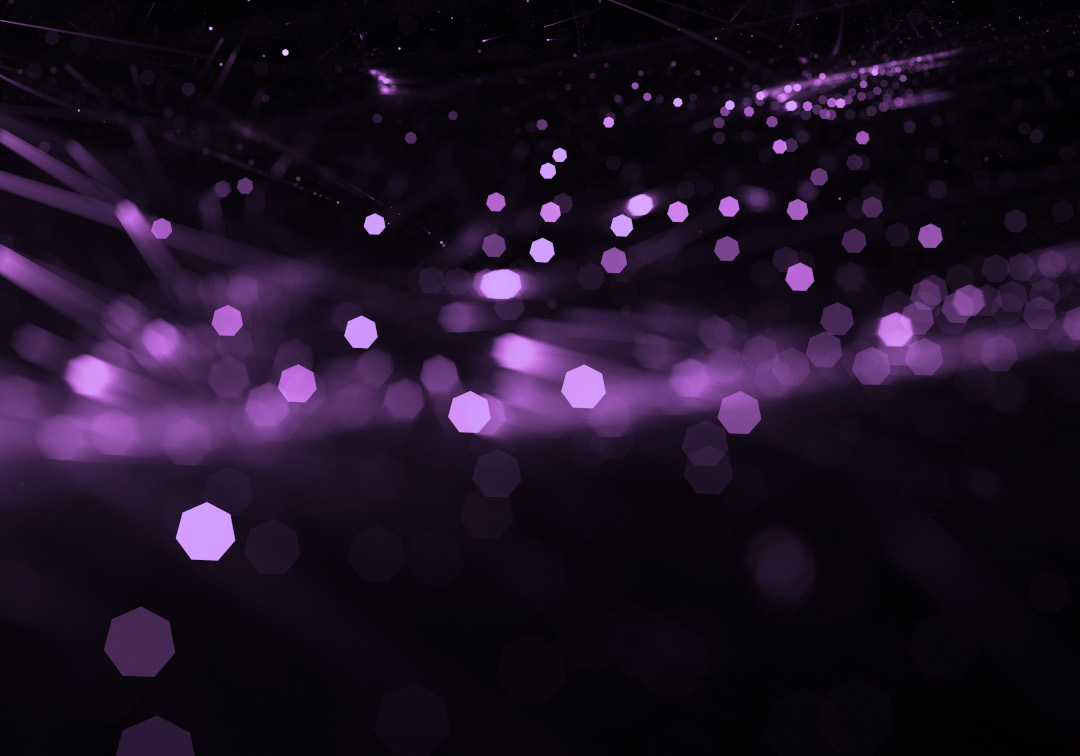
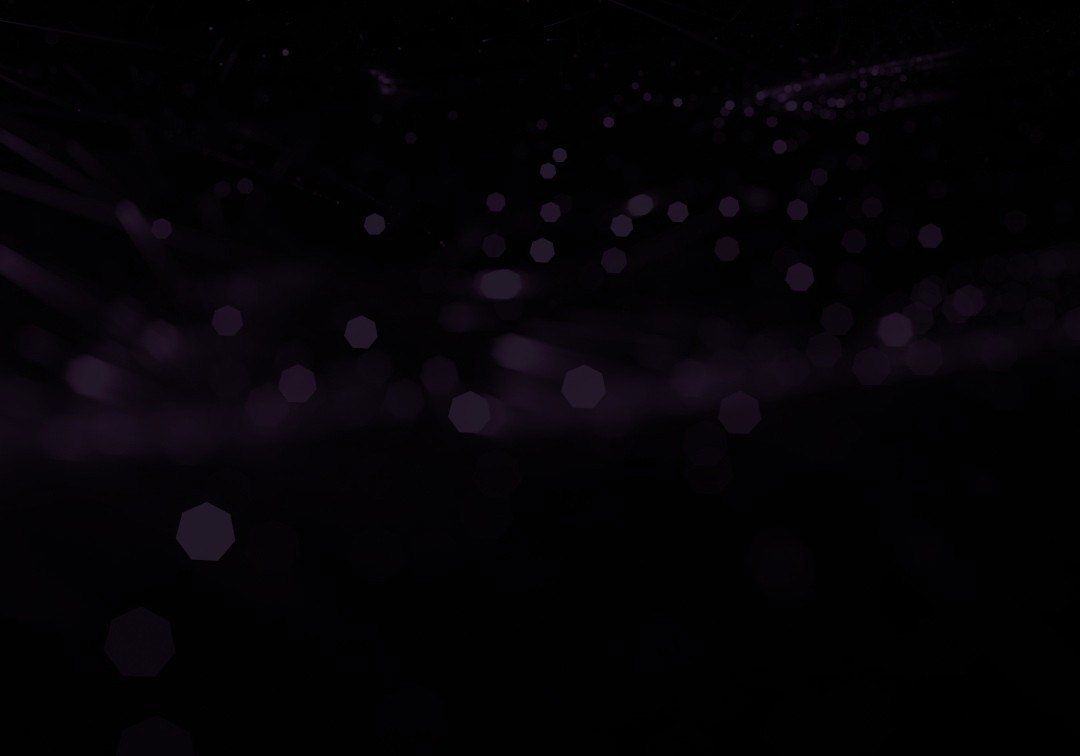
Intro Section Upd

diff --git a/index.html b/index.html
@@ -18,7 +18,7 @@
             <p>Abraão A. Reis</p>
         </div>
         <div id="col-menu">
-            <div id="menu-button"><span class="material-symbols-outlined" style="font-size: 36px;">menu</span></div>
+            <div id="menu-button"><span class="material-symbols-outlined">menu</span></div>
             <div id="side-menu" style="display: none;"> <!--Style local adicionado temporariamente-->
                 <nav>
                     <ul>
@@ -34,31 +34,37 @@
     </header>
     <main>
         <section id="intro">
-            <header class="title-container">
+            <div class="title-container">
                 <h1>Seus sites precisam ser <span>dinâmicos.</span></h1>
                 <div>
                     <div class="sidebar"></div>
                     <p>Contrate um profissional que entenda suas necessidades e transforme ideias em resultados.</p>
                     <div class="sidebar"></div>
                 </div>
-            </header>
-            <div id="useful-buttons">
-                <div>
-                    <p>Baixar CV</p>
-                </div>
-                <div>
-                    <p>Contato</p>
+                <div id="useful-buttons">
+                    <div>
+                        <p>Baixar CV</p>
+                    </div>
+                    <div>
+                        <p>Contato</p>
+                    </div>
                 </div>
             </div>
             <div id="network-buttons">
                 <div>
-                    <!--Github-->
+                    <svg xmlns="http://www.w3.org/2000/svg" x="0px" y="0px" width="30" height="30" viewBox="0 0 30 30">
+                        <path d="M15,3C8.373,3,3,8.373,3,15c0,5.623,3.872,10.328,9.092,11.63C12.036,26.468,12,26.28,12,26.047v-2.051 c-0.487,0-1.303,0-1.508,0c-0.821,0-1.551-0.353-1.905-1.009c-0.393-0.729-0.461-1.844-1.435-2.526 c-0.289-0.227-0.069-0.486,0.264-0.451c0.615,0.174,1.125,0.596,1.605,1.222c0.478,0.627,0.703,0.769,1.596,0.769 c0.433,0,1.081-0.025,1.691-0.121c0.328-0.833,0.895-1.6,1.588-1.962c-3.996-0.411-5.903-2.399-5.903-5.098 c0-1.162,0.495-2.286,1.336-3.233C9.053,10.647,8.706,8.73,9.435,8c1.798,0,2.885,1.166,3.146,1.481C13.477,9.174,14.461,9,15.495,9 c1.036,0,2.024,0.174,2.922,0.483C18.675,9.17,19.763,8,21.565,8c0.732,0.731,0.381,2.656,0.102,3.594 c0.836,0.945,1.328,2.066,1.328,3.226c0,2.697-1.904,4.684-5.894,5.097C18.199,20.49,19,22.1,19,23.313v2.734 c0,0.104-0.023,0.179-0.035,0.268C23.641,24.676,27,20.236,27,15C27,8.373,21.627,3,15,3z"></path>
+                    </svg>
                 </div>
                 <div>
-                    <!--LinkedIn-->
+                    <svg xmlns="http://www.w3.org/2000/svg" x="0px" y="0px" width="30" height="30" viewBox="0 0 30 30">
+                        <path d="M9,25H4V10h5V25z M6.501,8C5.118,8,4,6.879,4,5.499S5.12,3,6.501,3C7.879,3,9,4.121,9,5.499C9,6.879,7.879,8,6.501,8z M27,25h-4.807v-7.3c0-1.741-0.033-3.98-2.499-3.98c-2.503,0-2.888,1.896-2.888,3.854V25H12V9.989h4.614v2.051h0.065 c0.642-1.18,2.211-2.424,4.551-2.424c4.87,0,5.77,3.109,5.77,7.151C27,16.767,27,25,27,25z"></path>
+                    </svg>
                 </div>
                 <div>
-                    <!--Email-->
+                    <svg xmlns="http://www.w3.org/2000/svg" x="0px" y="0px" width="30" height="30" viewBox="0 0 50 50">
+                        <path d="M 43.753906 6.4023438 C 42.53621 6.3489969 41.294792 6.712898 40.271484 7.46875 L 37.525391 9.4960938 L 25 18.755859 L 12.591797 9.5839844 A 1.0001 1.0001 0 0 0 11.949219 9.3007812 L 12.199219 9.3007812 L 9.734375 7.4765625 C 8.7104042 6.7188363 7.4671493 6.3528895 6.2480469 6.40625 C 5.0289444 6.4596105 3.8349462 6.9314667 2.9082031 7.8457031 C 1.7309454 9.0063798 1 10.629831 1 12.410156 L 1 15.84375 A 1.0001 1.0001 0 0 0 1 16.138672 L 1 39.5 C 1 41.421188 2.5788117 43 4.5 43 L 12 43 A 1.0001 1.0001 0 0 0 13 42 L 13 25.373047 L 24.40625 33.804688 A 1.0001 1.0001 0 0 0 25.59375 33.804688 L 37 25.373047 L 37 42 A 1.0001 1.0001 0 0 0 38 43 L 45.5 43 C 47.421188 43 49 41.421188 49 39.5 L 49 16.119141 A 1.0001 1.0001 0 0 0 49 15.859375 L 49 12.410156 C 49 10.6517 48.290455 9.0357821 47.128906 7.8730469 C 47.095336 7.8394769 47.084086 7.83018 47.097656 7.84375 A 1.0001 1.0001 0 0 0 47.091797 7.8378906 C 46.165242 6.9256756 44.971603 6.4556905 43.753906 6.4023438 z M 43.644531 8.4003906 C 44.400835 8.4300436 45.134049 8.7168876 45.689453 9.2636719 C 45.708363 9.2823439 45.722171 9.2964424 45.712891 9.2871094 C 46.50934 10.084374 47 11.188613 47 12.410156 L 47 15.496094 L 39 21.408203 L 39 11 A 1.0001 1.0001 0 0 0 38.996094 10.898438 L 41.458984 9.078125 A 1.0001 1.0001 0 0 0 41.460938 9.078125 C 42.109578 8.598977 42.888228 8.3707375 43.644531 8.4003906 z M 6.3574219 8.40625 C 7.1145694 8.37661 7.8958927 8.6037105 8.5449219 9.0839844 L 11.003906 10.902344 A 1.0001 1.0001 0 0 0 11 11 L 11 21.408203 L 3 15.496094 L 3 12.410156 C 3 11.174482 3.5017577 10.068855 4.3125 9.2695312 C 4.8677569 8.7217677 5.6002743 8.4358895 6.3574219 8.40625 z M 37 12.371094 L 37 22.886719 L 25 31.755859 L 13 22.886719 L 13 12.373047 L 24.40625 20.804688 A 1.0001 1.0001 0 0 0 25.59375 20.804688 L 37 12.371094 z M 3 17.982422 L 11 23.896484 L 11 41 L 4.5 41 C 3.6591883 41 3 40.340812 3 39.5 L 3 17.982422 z M 47 17.982422 L 47 39.5 C 47 40.340812 46.340812 41 45.5 41 L 39 41 L 39 23.896484 L 47 17.982422 z"></path>
+                        </svg>
                 </div>
             </div>
             <p>Designed by <strong>Freepik</strong></p>

diff --git a/src/assets/styles/style.css b/src/assets/styles/style.css
@@ -56,13 +56,24 @@
 */
 
 body {
-    padding: 30px 30px;
+    height: 100vh;
+
+    background-color: var(--background-dark);
+}
+
+body p {
+    color: var(--primary-color);
 }
 
 body > header {
     display: flex;
     flex-direction: row nowrap;
     justify-content: space-between;
+    padding: 30px;
+
+    background-image: url(../images/background-p.jpg);
+    background-repeat: no-repeat;
+    background-position: right bottom;
 }
 
 header div#col-menu {
@@ -70,52 +81,78 @@ header div#col-menu {
     justify-self: center;
 }
 
-header h1 {
-    margin-bottom: 20px;
+header div#menu-button span {
+    color: var(--primary-color);
+    font-size: 36px;
+}
 
+div h1 {
+    margin-bottom: 28px;
+
+    color: var(--primary-color);
     text-align: center;
     font-size: var(--font-size-h1);
     font-family: var(--font-bold);
 }
 
-header h1 span {
+div h1 span {
     color: var(--base-color);
     text-decoration: underline;
 }
 
-header h2 {
+div h2 {
+    color: var(--primary-color);
     font-size: var(--font-size-h2);
     font-family: var(--font-bold);
 }
 
-header h2 span {
+div h2 span {
     color: var(--base-color);
 }
 
-header p {
+div p {
     font-size: var(--font-size-base);
     font-family: var(--font-light);
 }
 
-section#intro {
-    padding-top: 194px;
+section {
+    height: 700px;
+    padding: 30px;
 }
 
-header.title-container > div {
+section#intro {
+    display: grid;
+    grid-template-rows: auto auto;
+    gap: 20px;
+    align-items: center;
+
+    padding-top: 164px;
+    
+    text-align: center;
+
+    background-image: url(../images/background-p-invert.jpg);
+    background-repeat: no-repeat;
+    background-size: cover;
+    background-position: right bottom;
+}
+
+div.title-container > div {
     display: flex;
     flex-flow: row nowrap;
     align-items: center;
     justify-content: center;
+
+    margin-bottom: 28px;
 }
 
-header.title-container > div > p {
-    width: 80%;
+div.title-container > div > p {
+    width: 85%;
     padding: 0px 20px;
     
     text-align: center;
 }
 
-header div.sidebar {
+div div.sidebar {
     height: 57px;
     width: 2px;
 
@@ -125,10 +162,7 @@ header div.sidebar {
 div#useful-buttons {
     display: flex;
     flex-flow: row;
-    justify-content: space-evenly;
-
-    width: 80%;
-    margin-top: 20px;
+    justify-content: center;
 
     font-size: var(--font-size-base);
     font-family: var(--font-regular);
@@ -141,6 +175,7 @@ div#useful-buttons div {
 
     height: 40px;
     width: 130px;
+    margin: 0px 20px;
 
     border-radius: 22px;
 }
@@ -154,4 +189,33 @@ div#useful-buttons div:nth-of-type(2) {
     color: var(--primary-color);
 
     background-color: var(--base-color);
+}
+
+div#network-buttons {
+    display: flex;
+    flex-flow: row nowrap;
+    justify-content: space-evenly;
+}
+
+div#network-buttons div {
+    display: flex;
+    align-items: center;
+    justify-content: center;
+
+    height: 52px;
+    width: 52px;
+
+    border: 1px solid var(--base-color);
+    border-radius: 30px;
+}
+
+div#network-buttons div {
+    fill: var(--primary-color);
+}
+
+section#intro > p {
+    align-self: end;
+    justify-self: end;
+
+    font-family: var(--font-light);
 }
